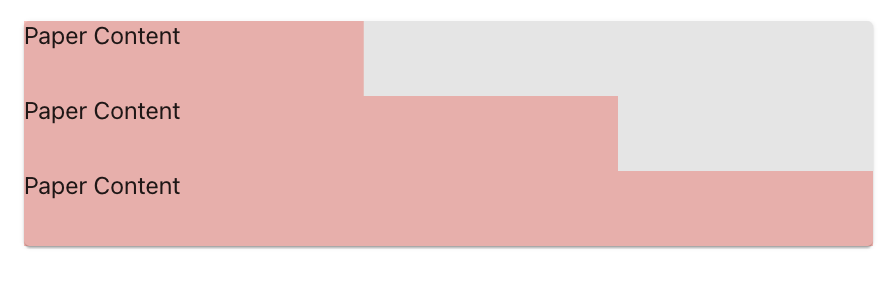
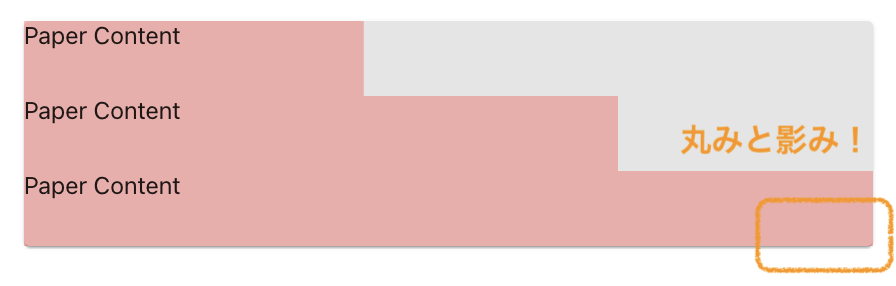
After revised

Changed region(s): [[0.8438, 0.6713, 1.0, 0.979], [0.75, 0.4196, 0.9688, 0.5594]]

diff --git a/articles/doc-9-mui-wrapper.md b/articles/doc-9-mui-wrapper.md
@@ -2,17 +2,19 @@
 title: "MUIのwrapper系コンポーネント(Box, Container, Paper, Stack)の違いを、そろそろ理解してみた"
 emoji: "🎁"
 type: "tech" # tech: 技術記事 / idea: アイデア
-topics: ["React.js", "Material-UI", "TypeScript", "JavaScript", "Frontend"]
-published: false
+topics: ["React", "MUI", "TypeScript", "JavaScript", "Frontend"]
+published: true
 ---
 
 
 React.jsでフロントエンド開発をしていると、MUIの美しさと便利さに助けられることが多々あるかと思います。
-MUIを使用していると、よく登場するのが, `Box`, `Container`, `Paper`, `Stack`などのwrapper系コンポーネントです。
-これらのコンポーネントは、それぞれ異なる目的のために設計されています。
-ですが、個人的にその違いを明確に理解して使っていなかったことに気づきました。
+MUIを使用していると、特によく登場するのが, `Box`, `Container`, `Paper`, `Stack`などのwrapper系コンポーネントです。
 
-今回は備忘録も兼ねて、MUIのwrapper系コンポーネントの違いを整理してみたいと思います。
+これらのコンポーネントは、それぞれ異なる目的のために設計されています。
+ですが今まで、個人的にその違いを明確に理解して使っていなかったことに気づきました。
+
+そろそろ `Box`, `Container`, `Paper`, `Stack`の違いを理解してみようと重い腰を上げた次第です。
+この記事では備忘録も兼ねて、MUIのwrapper系コンポーネントの違いをそれぞれ整理していきたいと思います。
 
 :::message
 この記事は、React.js + MUI(旧Material-UI)で開発をしているフロントエンドエンジニアの方を対象としています。
@@ -21,7 +23,7 @@ MUIを使用していると、よく登場するのが, `Box`, `Container`, `Pap
 
 # Box
 
-まずBoxコンポーネント。[MUIの公式ページ](https://mui.com/material-ui/react-box/)でどのような説明がなされているか見てみましょう。
+まず`Box`コンポーネント。[MUIの公式ページ](https://mui.com/material-ui/react-box/)でどのような説明がなされているか見てみましょう。
 
 
 > The Box component differs from other containers available in Material UI in that its usage is intended to be multipurpose and open-ended, just like a `<div>`. Components like Container, Stack and Paper, by contrast, feature usage-specific props that make them ideal for certain use cases: Container for main layout orientation, Stack for one-dimensional layouts, and Paper for elevated surfaces.
@@ -29,10 +31,11 @@ MUIを使用していると、よく登場するのが, `Box`, `Container`, `Pap
 日訳
 > Boxコンポーネントは、Material UIで利用可能な他のコンテナとは異なり、その使い方は`<div>`のように多目的で自由であることが意図されています。対照的に、Container、Stack、Paperのようなコンポーネントは、特定のユースケースに理想的な、用途に特化したプロップを備えています： Containerはメインレイアウトに、Stackは一次元レイアウトに、Paperは昇降面に適しています。
 
-つまりBoxは`div`のように、多目的な用途が前提で柔軟なスタイリングが可能なコンポーネントです。
-対して、Container、Stack、Paperはそれぞれ特定の用途に特化したプロパティを持っています。
+つまり`Box`は`div`のように、多目的な用途が前提なコンポーネントです。
+用途が豊富ということは柔軟なスタイリングが可能です。
+対して、`Container`、`Stack`、`Paper`はそれぞれ特定の用途に特化したプロパティを持っています。
 
-この柔軟という言葉で言わんとしているのは、propertyの豊富さです。
+✅ この柔軟さに起因しているのが、propertyの豊富さです。
 マージン、パディング、タイポグラフィ、カラー、レイアウト、ポジショニングなどのスタイリングプロパティを直接指定することができます。
 
 ```tsx
@@ -43,14 +46,18 @@ MUIを使用していると、よく登場するのが, `Box`, `Container`, `Pap
 </Box>
 ```      
 
-`sx` プロパティを用いてもスタイリングが可能です。
-ただ、直接のプロパティを利用するメリットとしては、`mb`(margin-bottom)などの略語を使うことができるため、
-コードが簡潔になることが挙げられます。
+
+![alt text](/images/doc9/image9-2.png)
 
 
-![alt text](/images/image9-2.png)
 
-また、さらに下記のように `component`プロパティを指定することで異なるHTML要素をレンダリングすることも可能です。
+上記のような実装は`sx` プロパティを用いてもスタイリングが可能です。
+ただし、直接のプロパティを利用するメリットとして、`mb`(margin-bottom)などの略語を使うことができるため、コードが簡潔になることが挙げられます。
+
+
+
+柔軟性をもう一つ挙げつとするならば、`component`プロパティです。
+✅ `component`プロパティを指定することで異なるHTML要素をレンダリングすることも可能です。
 
 ```tsx
 <Box component="span"/>
@@ -60,26 +67,26 @@ MUIを使用していると、よく登場するのが, `Box`, `Container`, `Pap
 
 # Container
 
-次にContainerについて。[公式の説明](https://mui.com/material-ui/react-container/)を見てましょう。
+次に`Container`について。[公式の説明](https://mui.com/material-ui/react-container/)を見てましょう。
 
 > The container centers your content horizontally. It's the most basic layout element.
 
 日訳
-> コンテナは、コンテンツを水平方向に中央配置します。最も基本的なレイアウト要素です。
+> Containerは、コンテンツを水平方向に中央配置します。最も基本的なレイアウト要素です。
 
 この水平方向中央配置というのは、Containerで囲まれたコンテンツが画面の中央に配置されるということです。
-
-![alt text](/images/image9-1.png)
-
-イメージとしては、Containerの中身に対して、
-`<div style="margin: 0 auto;">`が適用されていると考えればわかりやすいかもしれません。
-
-※ あくまでイメージです。Containerで囲うのと上記のdiv要素を直接書くのとでは、挙動が異なることがあります。
 
 Boxの説明の際に、
 >Container、Stack、Paperはそれぞれ特定の用途に特化したプロパティを持っています。
 
-と表記しましたが、Containerの場合の「特定の用途」とは、中身を水平方向に中央配置することなのですね。
+と記載しましたが、Containerの場合の「特定の用途」とは中身を水平方向に中央配置することです。
+
+![alt text](/images/doc9/image9-1.png)
+
+✅ イメージとしては、`Container`の中身に対して、`<div style="margin: 0 auto;">`が適用されていると考えればわかりやすいかもしれません。
+
+※ あくまでイメージです。Containerで囲うのと上記のdiv要素を直接書くのとでは、挙動が異なることがあります。
+
 
 中央配置するコンテナの中身の幅は、`maxWidth`プロパティで制御できます。
 
@@ -106,27 +113,69 @@ Containerの特定の用途が「中央配置」であるのに対し、Paperの
 </Paper>
 ```
 
-![alt text](/images/image9-3.png)
+![alt text](/images/doc9/image9-3.png)
 
 
-角が丸くなって、box-shadowがついているのがわかります。
-ですのでPaperは`div`タグに、`border-radius`と`box-shadow`を適用したようなものと考えるとわかりやすいかもしれません。
+角が丸くなって、影っぽい装飾がついているのがわかります。
+✅ ですのでPaperは`div`タグに、`border-radius`と`box-shadow`を適用したようなものと考えるとわかりやすいかもしれません。
 
 ※ あくまでイメージです。Paperで囲うのと上記のdiv要素を直接書くのとでは、挙動が異なることがあります。
 
 # Stack
 
+最後に[Paperコンポーネント](https://mui.com/material-ui/react-stack/)。
+
+> Stack is a container component for arranging elements vertically or horizontally.
+
+日訳
+> Stackは、要素を縦または横に並べるためのコンテナ・コンポーネントである。
+
+`Box`が多目的で柔軟なスタイリング(グリッドレイアウトや複雑な二次元レイアウト)が可能であるのに対して、
+`Stack`は水平 or 垂直方向の一次元レイアウトに特化したコンポーネントです。
 
 
-# 普通の`div`タグ
+✅ そのため、下記のような単純なレイアウトの場合、`Stack`を使うことでコードが簡潔になります。
+
+
+```jsx
+<h1>Boxを使った例</h1>
+<Box display="flex" flexDirection="column">
+  <Box mb={2} bgcolor="lightblue" p={2}>Item 1</Box>
+  <Box mb={2} bgcolor="lightgreen" p={2}>Item 2</Box>
+  <Box bgcolor="lightcoral" p={2}>Item 3</Box>
+</Box>
+
+<h1>Stackを使った例</h1>
+<Stack spacing={2}>
+  <Box bgcolor="lightblue" p={2}>Item 1</Box>
+  <Box bgcolor="lightgreen" p={2}>Item 2</Box>
+  <Box bgcolor="lightcoral" p={2}>Item 3</Box>
+</Stack>
+```
+
+![alt text](/images/doc9/image9-4.png)
+
+他にも、`direction`プロパティで並び方向を指定することができたり、
+✅ `divider`プロパティで要素間に区切り線を表示することもできます(👈 これ便利)。
+
+
 
 # まとめ
 
+以上、MUIのwrapper系コンポーネント(Box, Container, Paper, Stack)の違いについて整理してみました。
+✅ 最後に、それぞれの特徴を表形式でまとめておきます。
 
-| コンポーネント名 | 特徴と概要 | メリット | デメリット |
-|----------------|----------------|-----------------------------------|--------------------------------------------|
-| Box            | 多目的で柔軟なスタイリングが可能なコンポーネント。`<div>`のように使用できる。 | 直接スタイルプロパティを適用でき、細かいスタイリングが容易。 | 多くのプロパティを理解し適切に使う必要がある。 |
-| Container      | ページの主要なレイアウトを定義するために使用。中央配置や最大幅の制御に適している。 | レスポンシブデザインのためのレイアウト整備が簡単。 | 細かいスタイリングの柔軟性には限界がある。 |
-| Paper          | シャドウや丸みを帯びた角など、浮き出た表面を表現するためのコンポーネント。 | 視覚的な深みを与えるデザインが簡単に実現できる。 | 単体ではレイアウトの構成要素として機能しない。 |
-| Stack          | 一次元レイアウトを容易にするためのコンポーネント。縦か横の線形スタックを作成する。 | アイテムを縦または横に整列させるのが簡単で、レイアウトが直感的。 | 複雑なレイアウトには適さない可能性がある。 |
-| 通常のdivタグ  | 最も基本的なHTML要素。カスタムスタイリングやレイアウトのために広く使われる。 | 汎用性が高く、どんなスタイルも適用可能。 | レスポンシブやアクセシビリティの機能を自分で管理する必要がある。 |
+| コンポーネント名 | 特徴と概要 |
+|----------------|----------------|
+| Box            | 多目的で柔軟なスタイリングが可能なコンポーネント。`<div>`のように使用できる。 |
+| Container      | ページの主要なレイアウトを定義するために使用。中央配置や最大幅の制御に適している。 |
+| Paper          | シャドウや丸みを帯びた角など、浮き出た表面を表現するためのコンポーネント。 |
+| Stack          | 一次元レイアウトを容易にするためのコンポーネント。縦か横の線形スタックを作成する。 |
+
+
+この記事を理解することで、
+今まで**Boxで書いていたところが、ContainerやPaper、Stackを用いるとシンプルに書ける**ようになったり、
+逆に、**Boxの柔軟性を活かして複雑なレイアウトを実装する**ことができるようになるかもしれません。
+
+私個人だけではなくどなたかの備忘録として、もしこの記事がお役に立ちそうであれば幸いです。
+また後で見返せるようにブックマークの方もよろしくお願いいたします。
